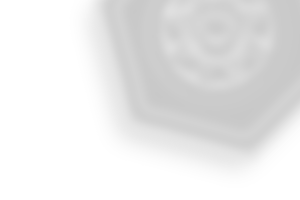
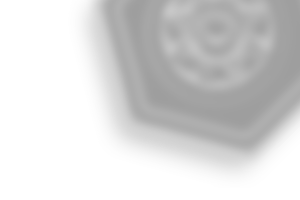
Modelador genera XML compatible (simple) y cambios en la interfaz.

diff --git a/Seed/trunk/Seed/modeler/js/fillform.js b/Seed/trunk/Seed/modeler/js/fillform.js
@@ -12,22 +12,39 @@
 /**
  * Clase campo
  */
-function Field(name, order) {
+function Field(name, order, type) {
 	this.name = name;
 	this.order = order;
+	this.type = type;
 	
 	/**
 	 * Devuelve el XML del campo
 	 */
 	this.toXML = function()
 	{
-		var fieldxml = "<field><order>" + this.order + "</order>";
-		fieldxml += "<name>" + this.name + "</name></field>";
+		var fieldxml = "<field><id />";
+		fieldxml += "<label>" + this.name + "</label>";
+		fieldxml += "<type>"+ this.type +"</type>";
+		fieldxml += "<properties/></field>";
 		return fieldxml;
 	}
 	
 }
 /* -------------- */
+
+<field>
+<id />
+<label>Etiqueta1</label>
+<type>TEXT</type>
+<required />
+<properties>
+	<property>
+		<name>max_length</name>
+		<value>10</value>
+	</property>
+</properties>
+</field>
+
 
 
 /**
@@ -71,7 +88,7 @@ function Section(name, order) {
 	this.toXML = function()
 	{
 		var i;
-		var xml = "<section><order>" + this.order + "</order>";
+		var xml = "<section><id/>";
 		xml += "<name>" + this.name + "</name>";
 		xml += "<fields>";
 		for (i=0;i<this.fields.length;i++)	
@@ -127,7 +144,7 @@ $(".formname").inlineEdit({
 /*****************************************************************/
 /* Crea un nuevo campo para el formulario                        */
 /*****************************************************************/
-function createNewField(id, name, section, idDrag, type) {
+function createNewField(id, name, section, idDrag, type, fieldType) {
 	// Componemos el id del nuevo campo
 	var idField = 's' + section + '-f' + formSections[section].size();
 	var newField = $('<li />', {
@@ -165,7 +182,7 @@ function createNewField(id, name, section, idDrag, type) {
 		})
 	);
 	addListenersToField(newField);
-    var jsField = new Field(name,id);
+    var jsField = new Field(name,id,fieldType);
     formSections[section].addField(jsField);
     return newField;
 }
@@ -185,7 +202,7 @@ function deleteField (tagID) {
 function expandField (tagID) {
    var node = document.querySelector('#'+tagID);
    node = $(node).children('.properties');
-   $(node).slideToggle('slow');
+   $(node).slideToggle('fast');
 }
 
 // Añadir una nueva sección

diff --git a/Seed/trunk/Seed/modeler/templates/create.html b/Seed/trunk/Seed/modeler/templates/create.html
@@ -3,6 +3,8 @@
 <head>
 	<meta charset="utf-8" />
 	<title>Demo Modelador</title>
+	<link rel="icon" href="images/modeler-favicon.ico" type="image/x-icon">
+    <link rel="shortcut icon" href="images/modeler-favicon.ico" type="image/x-icon"> 
 	<link rel="stylesheet" href="css/default.css" />
 </head>
 <body>
@@ -29,6 +31,7 @@
 		    <ul>
 				<li><a class="item" href="#" id="campo1" draggable="true">
 				    <div class="type">text</div>
+				    <div class="fieldtype">TEXT</div>
 					<img src="images/text-button.png" />
 					<div class="label">
 						<p><strong>Campo de texto</strong></p>
@@ -36,6 +39,7 @@
 				</a></li>
 				<li><a class="item" href="#" id="campo2" draggable="true">
 				    <div class="type">textarea</div>
+				    <div class="fieldtype">TEXT</div>
 					<img src="images/textarea-button.png" />
 					<div class="label">
 						<p><strong>Área de texto</strong></p>
@@ -43,6 +47,7 @@
 				</a></li>
 				<li><a class="item" href="#" id="campo3" draggable="true">
 				    <div class="type">file</div>
+				    <div class="fieldtype">FILE</div>
 					<img src="images/file-button.png" />
 					<div class="label">
 						<p><strong>Fichero</strong></p>
@@ -50,6 +55,7 @@
 				</a></li>
 				<li><a class="item" href="#" id="campo4" draggable="true">
 				    <div class="type">image-gallery</div>
+				    <div class="fieldtype">IMAGE</div>
 					<img src="images/image-button.png" />
 					<div class="label">
 						<p><strong>Galería de imágenes</strong></p>
@@ -71,7 +77,7 @@
 		        </form>
             </div>	
 		</div>		
-		<!--<img src="images/turawet_modeler.png" id="minilogo"/>-->
+		<img src="images/turawet-modeler-minilogo.png" id="minilogo"/>
 	</div>
 	<script src="http://ajax.googleapis.com/ajax/libs/jquery/1.4.2/jquery.min.js"></script>
 	<script src="http://ajax.googleapis.com/ajax/libs/jqueryui/1.8/jquery-ui.min.js"></script>

diff --git a/Seed/trunk/Seed/modeler/js/dragdrop.js b/Seed/trunk/Seed/modeler/js/dragdrop.js
@@ -104,12 +104,13 @@ function addListenersToSection(section) {
 	    // Variables para el nuevo campo
 	    var fieldName =  $('p:first', item).text();
 	    var type =  $('div.type', item).text();
+	    var fieldType =  $('div.fieldtype', item).text();
 	    // id of Section
 	    var sectionId = parseInt((this.id).match(/\d+/));
 	    // id of Field
 	    var id = parseInt(formSections[sectionId].size());
 	    // Creamos el nuevo campo
-	    var newField = createNewField(id, fieldName, sectionId, idDrag, type);
+	    var newField = createNewField(id, fieldName, sectionId, idDrag, type, fieldType);
 	    
 	    // Agregamos el campo al formulario
 	    newField.appendTo(this);
@@ -131,12 +132,13 @@ function addListenersToField(field) {
 	    // Variables para el nuevo campo
 	    var fieldName =  $('p:first', item).text();
 	    var type =  $('div.type', item).text();
+	    var fieldType =  $('div.fieldtype', item).text();
 	    // id of Section
 	    var sectionId = parseInt((this.parentNode.id).match(/\d+/));
 	    // id of Field
 	    var id = parseInt(formSections[sectionId].size());
 	    // Creamos el nuevo campo
-	    var newField = createNewField(id, fieldName, sectionId, idDrag, type);	    
+	    var newField = createNewField(id, fieldName, sectionId, idDrag, type, fieldType);	    
 	    // Agregamos el campo al formulario
 	    newField.insertBefore(this);
 

diff --git a/Seed/trunk/Seed/modeler/css/default.css b/Seed/trunk/Seed/modeler/css/default.css
@@ -57,8 +57,8 @@ p { margin:0; }
 
 #minilogo {
     position:fixed;
-    bottom:5px;
-    left:10px;
+    bottom:18px;
+    left:18px;
 }
 
 
@@ -75,13 +75,22 @@ p { margin:0; }
     background-color:#FFAFAA;
 }
 
+/* SECTION */
 #form ul {
     margin: 0px 30px 20px 30px;
     padding: 15px 0px 20px 0px;
     vertical-align:middle;
     border: 1px dashed #000;
+    /*-moz-border-radius: 5px;
+    border-radius: 5px;*/
 }
 
+#form .sectionlabel {
+    font: bold 14px/1.5 helvetica, arial, san-serif;
+    margin: 0px 0px 0px 10px;
+}
+
+/* FIELD */
 #form li {
 	list-style:none;
 	/*border-bottom:1px solid #494949;*/
@@ -90,6 +99,8 @@ p { margin:0; }
     background-position:left top;
     margin:5px 0px 0px 0px;
     padding:20px;
+    -moz-border-radius: 12px;
+    border-radius: 12px;
 }
 
 #form li p.fieldlabel {
@@ -109,7 +120,10 @@ p { margin:0; }
 #form li div.properties {
     display:none;
     padding:20px;
-    background-color: #999691;
+    margin: 0px 0px 12px 0px;
+    background-color: #DEDEDE;
+    -moz-border-radius: 12px;
+    border-radius: 12px;
 /*    width: 100%;*/
     position: relative;
     top: 20px;
@@ -214,7 +228,7 @@ p { margin:0; }
 	margin:4px auto;
 }
 
-.item div.type {
+.item div {
     display:none;
 }
 

diff --git a/Seed/trunk/Seed/modeler/js/parseform.js b/Seed/trunk/Seed/modeler/js/parseform.js
@@ -10,7 +10,10 @@
 /*****************************************************************/
 
 function formToXML (name, sections) {
-	var text = "<form><name>" + name + "</name><sections>";
+	var text = "<form><id/><version>1</version>";
+	text += "<name>" + name + "</name>";
+	text += "<author><user>turawet</user></author>";
+	text += "<sections>";
 	for (i=0;i<sections.length;i++)	
 		text += sections[i].toXML();
 	text += "</sections></form>";
